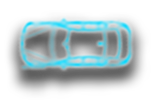
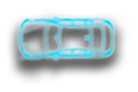
阶段1的左侧的图列布局

diff --git a/src/pages/model/pages/realtime-overview/index.module.less b/src/pages/model/pages/realtime-overview/index.module.less
@@ -25,49 +25,82 @@
 
 .leftLegend {
     position: relative;
-    left: 153px;
-    top: 136px;
+    left: 131px;
+    top: 117px;
     background: url(@/assets/images/backgroundLegend.png) no-repeat left top;
-    width: 345px;
-    height: 521px;
+    width: 295px;
+    height: 446px;
     background-size: contain;
     display: flex;
     justify-content: center;
 }
 
 .leftLegendLabel {
-    font-size: 25px;
+    font-size: 21px;
     color: #FFF;
     font-family: MicrosoftYaHei;
     text-align: left;
-    padding-top: 130px;
+    padding-top: 112px;
+}
+
+.leftLegendLabel  {
+    >p {
+        line-height: 1em;
+        margin-bottom: 15px;
+    }
 }
 
 .leftLegendIcon {
-    padding-top: 130px;
-    width: 115px;
+    padding-top: 104px;
+    width: 100px;
+    > p {
+        margin:  0 auto;
+        background-size: contain;
+    }
 }
 
 .wurencheIcon {
-    margin:  0 auto;
-    width: 79px;
-    height: 53px;
-    background: url(@/assets/images/wurenche.png) no-repeat center -8px;
-    background-size: contain;
+    width: 67px;
+    height: 45px;
+    background: url(@/assets/images/wurenche.png) no-repeat center top;
+    
 }
 
 .sixuanyiIcon {
-    margin:  0 auto;
-    width: 50px;
-    height: 43px;
-    background: url(@/assets/images/sixuanyiIcon.png) no-repeat center -8px;
-    background-size: contain;
+    width: 42px;
+    height: 36px;
+    background: url(@/assets/images/sixuanyiIcon.png) no-repeat center top;
 }
 
 .gudingyiIcon {
-    margin: 0 auto;
-    width: 71px;
-    height: 51px;
-    background: url(@/assets/images/gudingyiIcon.png) no-repeat center -8px;
-    background-size: contain;
+    width: 60px;
+    height: 48px;
+    background: url(@/assets/images/gudingyiIcon.png) no-repeat center top;
+}
+
+.tankeIcon {
+    width: 63px;
+    height: 30px;
+    margin-top: -10px!important;
+    background: url(@/assets/images/tankeIcon.png) no-repeat center top;
+}
+
+
+.jianchuanIcon {
+    width: 98px;
+    height: 17px;
+    margin-top: -10px!important;
+    background: url(@/assets/images/jianchuanIcon.png) no-repeat center top;
+}
+
+.zhanliejianIcon {
+    width: 93px;
+    height: 20px;
+    background: url(@/assets/images/zhanliejianIcon.png) no-repeat center top;
+}
+
+.weizhuangzhanliejianIcon {
+    width: 93px;
+    height: 20px;
+    background: url(@/assets/images/weizhuangzhanliejianIcon.png) no-repeat center top;
 }

diff --git a/src/pages/model/pages/realtime-overview/index.module.css b/src/pages/model/pages/realtime-overview/index.module.css
@@ -22,44 +22,68 @@
 }
 .leftLegend {
   position: relative;
-  left: 153px;
-  top: 136px;
+  left: 131px;
+  top: 117px;
   background: url(@/assets/images/backgroundLegend.png) no-repeat left top;
-  width: 345px;
-  height: 521px;
+  width: 295px;
+  height: 446px;
   background-size: contain;
   display: flex;
   justify-content: center;
 }
 .leftLegendLabel {
-  font-size: 25px;
+  font-size: 21px;
   color: #FFF;
   font-family: MicrosoftYaHei;
   text-align: left;
-  padding-top: 130px;
+  padding-top: 112px;
+}
+.leftLegendLabel > p {
+  line-height: 1em;
+  margin-bottom: 15px;
 }
 .leftLegendIcon {
-  padding-top: 130px;
-  width: 115px;
+  padding-top: 104px;
+  width: 100px;
+}
+.leftLegendIcon > p {
+  margin: 0 auto;
+  background-size: contain;
 }
 .wurencheIcon {
-  margin: 0 auto;
-  width: 79px;
-  height: 53px;
-  background: url(@/assets/images/wurenche.png) no-repeat center -8px;
-  background-size: contain;
+  width: 67px;
+  height: 45px;
+  background: url(@/assets/images/wurenche.png) no-repeat center top;
 }
 .sixuanyiIcon {
-  margin: 0 auto;
-  width: 50px;
-  height: 43px;
-  background: url(@/assets/images/sixuanyiIcon.png) no-repeat center -8px;
-  background-size: contain;
+  width: 42px;
+  height: 36px;
+  background: url(@/assets/images/sixuanyiIcon.png) no-repeat center top;
 }
 .gudingyiIcon {
-  margin: 0 auto;
-  width: 71px;
-  height: 51px;
-  background: url(@/assets/images/gudingyiIcon.png) no-repeat center -8px;
-  background-size: contain;
+  width: 60px;
+  height: 48px;
+  background: url(@/assets/images/gudingyiIcon.png) no-repeat center top;
+}
+.tankeIcon {
+  width: 63px;
+  height: 30px;
+  margin-top: -10px !important;
+  background: url(@/assets/images/tankeIcon.png) no-repeat center top;
+}
+.jianchuanIcon {
+  width: 98px;
+  height: 17px;
+  margin-top: -10px !important;
+  background: url(@/assets/images/jianchuanIcon.png) no-repeat center top;
+}
+.zhanliejianIcon {
+  width: 93px;
+  height: 20px;
+  background: url(@/assets/images/zhanliejianIcon.png) no-repeat center top;
+}
+.weizhuangzhanliejianIcon {
+  width: 93px;
+  height: 20px;
+  background: url(@/assets/images/weizhuangzhanliejianIcon.png) no-repeat center top;
 }

diff --git a/src/pages/model/pages/realtime-overview/index.tsx b/src/pages/model/pages/realtime-overview/index.tsx
@@ -123,6 +123,10 @@ const RealtimeOverview = () => {
           <p className={styles.wurencheIcon}></p>
           <p className={styles.sixuanyiIcon}></p>
           <p className={styles.gudingyiIcon}></p>
+          <p className={styles.tankeIcon}></p>
+          <p className={styles.jianchuanIcon}></p>
+          <p className={styles.zhanliejianIcon}></p>
+          <p className={styles.weizhuangzhanliejianIcon}></p>
         </div>
       </div>
     </div>
